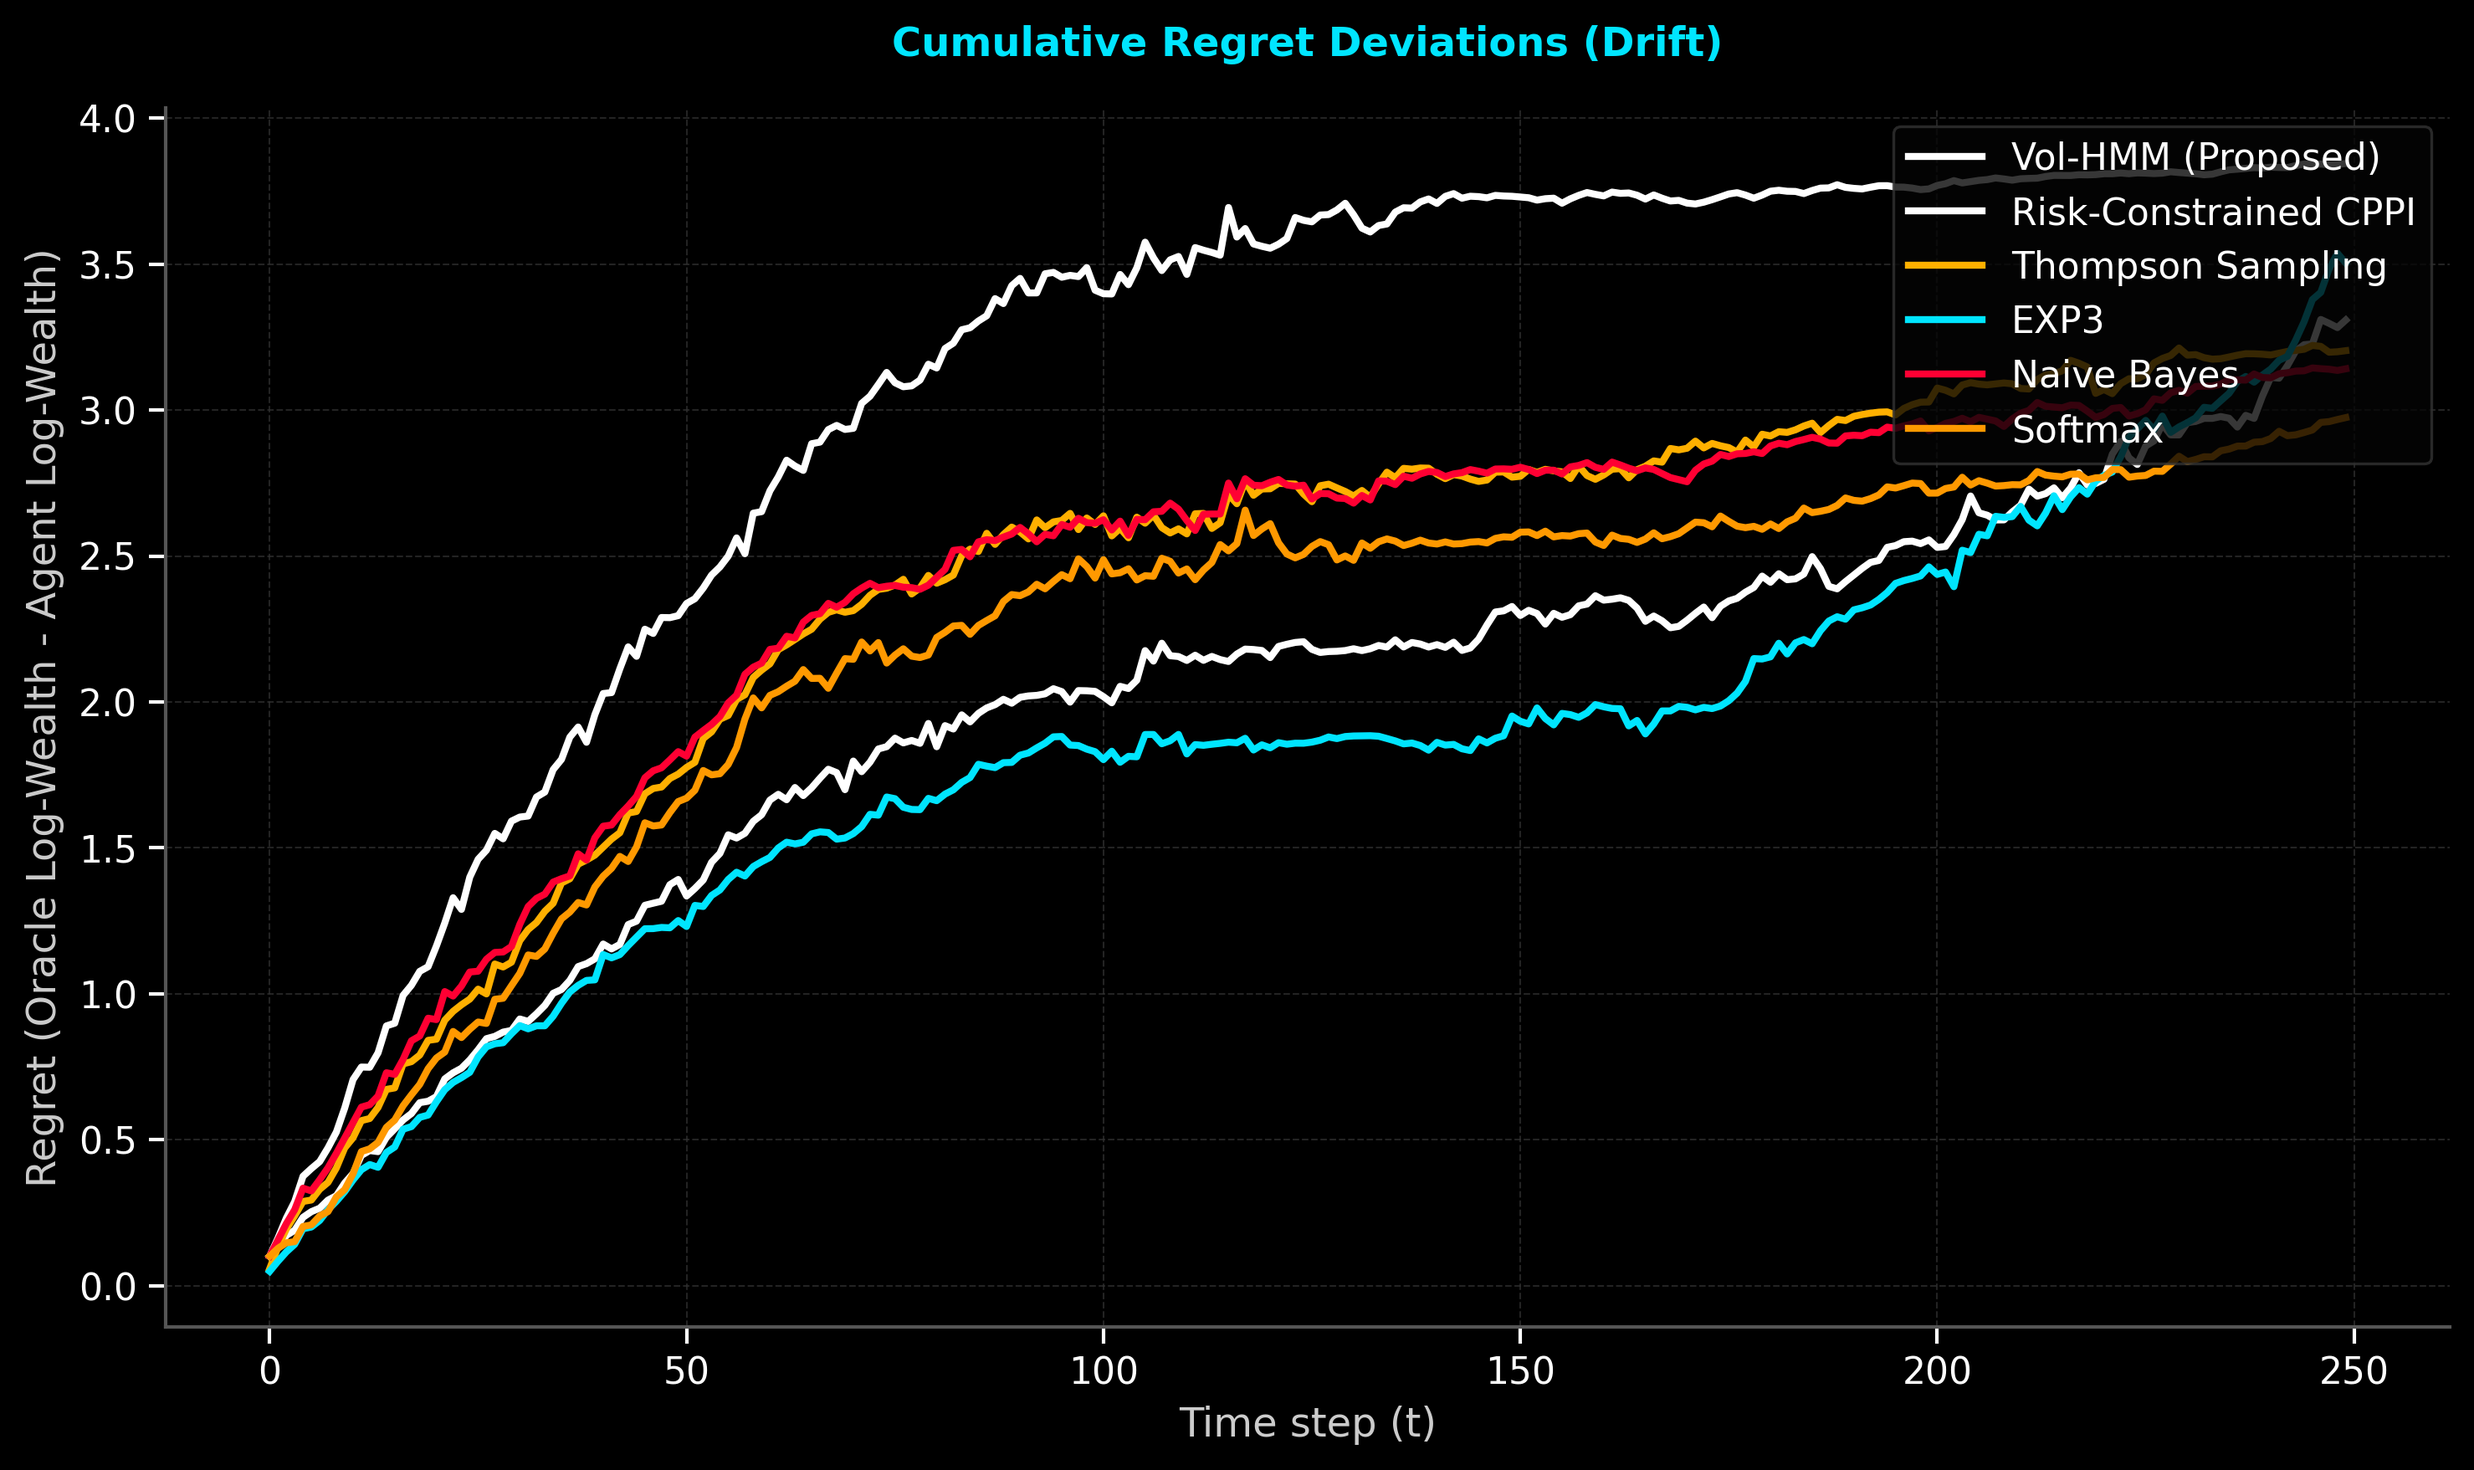
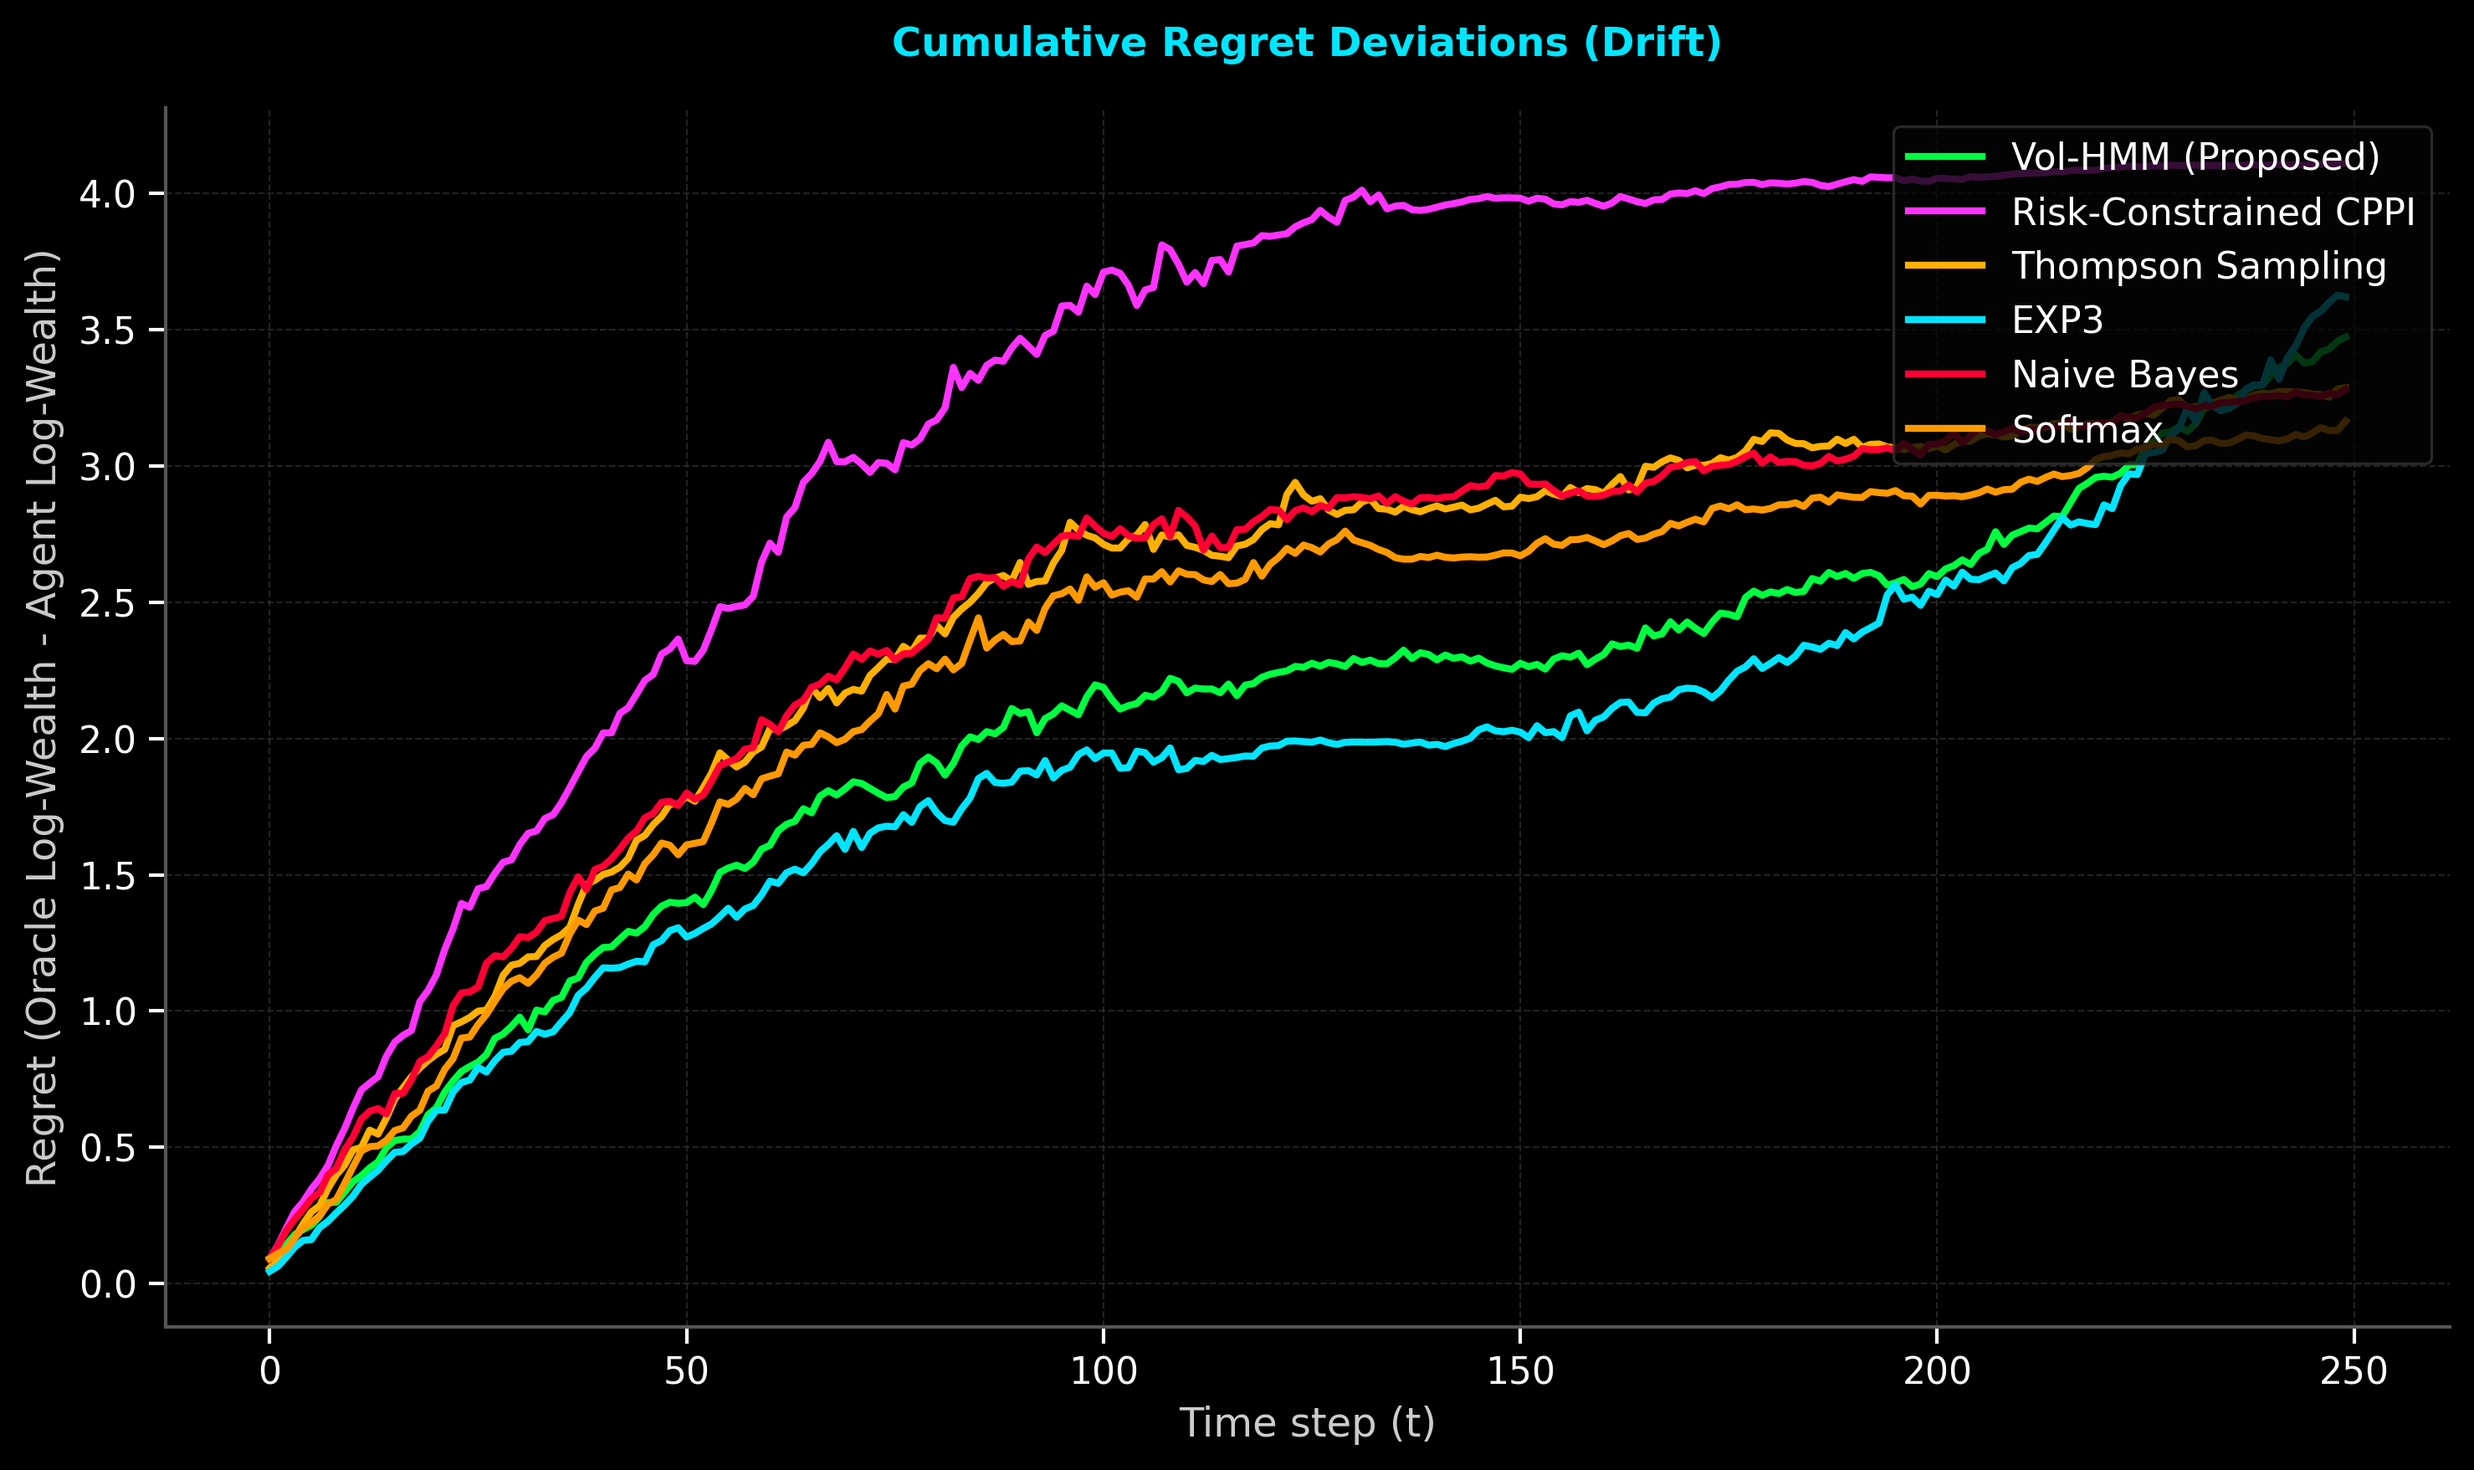
audit: wire CPPI floor (pass wealth to RiskConstrainedKelly) and rerun experiments; not yet replicated

diff --git a/final_thesis_work/experiments/generate_all_figures.py b/final_thesis_work/experiments/generate_all_figures.py
@@ -42,7 +42,11 @@ def run_experiment(name, returns_matrix, t_steps, n_sims, oracle_f_path):
                 f = agent.act()[0]
                 r = returns_matrix[sim, t]
                 tracker.update(f, r)
-                agent.update(np.array([r]))
+                # CPPI needs the realized wealth to move its floor (audit fix, 2026-10-12)
+                if isinstance(agent, RiskConstrainedKelly):
+                    agent.update(np.array([r]), wealth=tracker.wealth)
+                else:
+                    agent.update(np.array([r]))
                 sim_path.append(tracker.wealth)
                 
                 # Oracle Math

diff --git a/final_thesis_work/dashboard/backend/app.py b/final_thesis_work/dashboard/backend/app.py
@@ -160,7 +160,11 @@ def simulate_compare():
                 f = agent.act()[0]
                 r = returns_matrix[sim, t]
                 tracker.update(f, r)
-                agent.update(np.array([r]))
+                # CPPI needs the realized wealth to move its floor (audit fix, 2026-10-12)
+                if isinstance(agent, RiskConstrainedKelly):
+                    agent.update(np.array([r]), wealth=tracker.wealth)
+                else:
+                    agent.update(np.array([r]))
                 sim_wealth_path.append(tracker.wealth)
                 
             state = tracker.get_state()

diff --git a/final_thesis_work/audit/RERUN_cppi_floor.md b/final_thesis_work/audit/RERUN_cppi_floor.md
@@ -1,0 +1,40 @@
+# CPPI floor wiring fix and rerun (branch audit-cppi-floor, 2026-10-12)
+
+NOT REPLICATED YET. Do not quote any number below until an independent re-implementation agrees.
+
+## The fix
+`experiments/generate_all_figures.py` and `dashboard/backend/app.py` called `agent.update(np.array([r]))`
+for every agent, so `RiskConstrainedKelly` never saw its wealth: its peak and floor stayed at 1.0 and
+its CPPI multiplier stayed at the 0.5 cap on every step. Both call sites now pass
+`wealth=tracker.wealth` to the CPPI agent only (other agents' `update` takes no wealth argument).
+No other code changed.
+
+## Rerun
+`cd final_thesis_work && MPLBACKEND=Agg python3 experiments/generate_all_figures.py` (about 30 s;
+Python 3.10, numpy as installed). It regenerates the figures and `*_stats.json` under
+`dashboard/frontend/public/results/`. Drawdown statistics: `python3 audit/audit_checks.py` function
+`cppi(True)` (same paths, seeds 42 and 142).
+
+Adversarial scenario (100 paths, T = 250, break at t = 125), Risk-Constrained CPPI:
+
+| | before (floor not wired) | after (floor wired) |
+|---|---|---|
+| ruin rate | 0.00 | 0.00 |
+| median terminal wealth | 1.073 | 4.105 |
+| CPPI multiplier range | 0.5 to 0.5 | 0.01 to 0.5 |
+| paths with max drawdown > 20% | 100 | 98 |
+| median max drawdown | 0.794 | 0.220 |
+| worst max drawdown | 0.990 | 0.845 |
+
+So the floor now moves, but a 20% drawdown floor with one rebalance per step does not keep drawdown
+within 20%: Student-t(3) shocks gap through it on 98 of 100 paths. Ruin stays at 0%.
+
+## Other numbers that changed, and why (not caused by the fix)
+* Thompson Sampling (all scenarios) and every agent in the Drift scenario use the unseeded global
+  NumPy RNG (`np.random.normal` in `generate_all()`; Thompson's posterior draws), so they differ on every
+  run. Example: Adversarial Thompson ruin 0.16 in the committed file, 0.12 in this run. These numbers are
+  not reproducible as committed.
+* Seeded agents not using the CPPI fix (Vol-HMM, EXP3, Naive Bayes, Softmax in Stationary and
+  Adversarial) reproduce to floating-point precision.
+
+The defended thesis PDF and its tables are unchanged by this branch.
